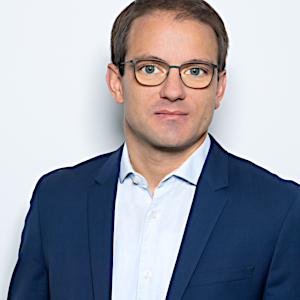
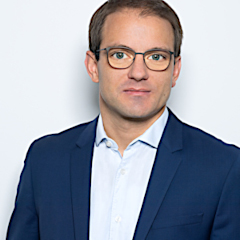
Bilder der Stiftungsratsmitglieder etwas verkleinert.

diff --git a/content/stiftungsrat.md b/content/stiftungsrat.md
@@ -43,8 +43,8 @@ Fachkraft für Arbeitssicherheit, Dipl. Ing. (FH) i. R., Remstal
 <img src="Klapper.jpg" alt="Angelika Klapper" title="Angelika Klapper" class="img-fluid">
 
 ### Angelika Klapper
-geb. 1951  
-Lehrerin, Berlin
+geb. 1951 in Erfurt  
+Lehrerin i.R., Berlin
 
 
 
@@ -54,4 +54,3 @@ Lehrerin, Berlin
 ### Angelika Piniek
 geb. 1952 in Berlin (Ost)  
 Gemeindereferentin i.R., Berlin
-
